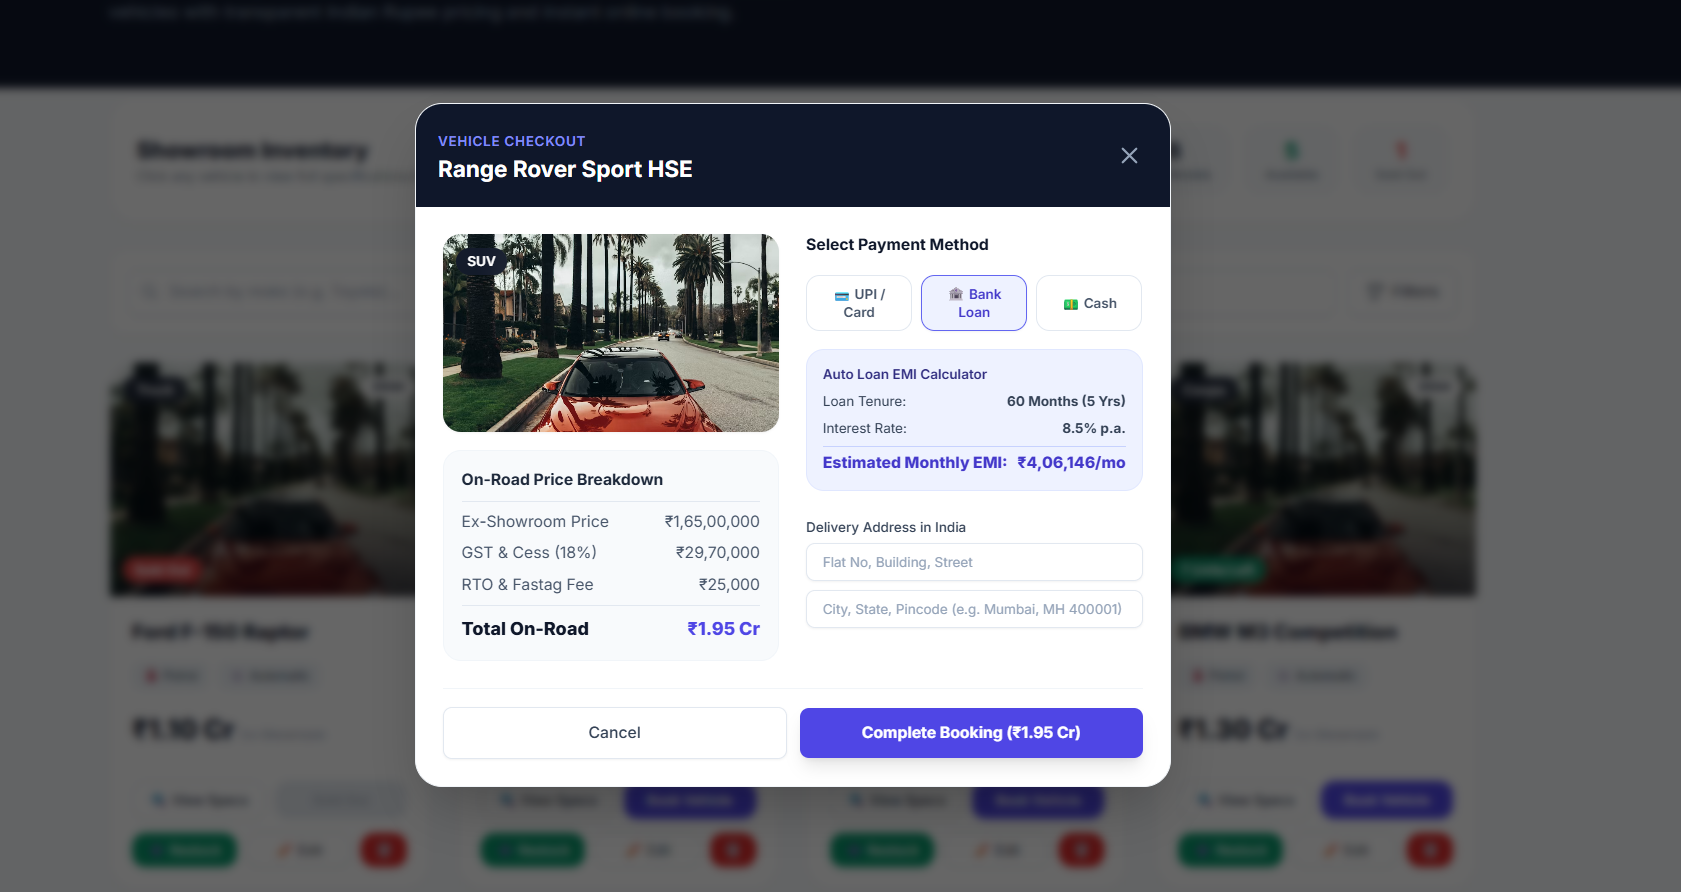
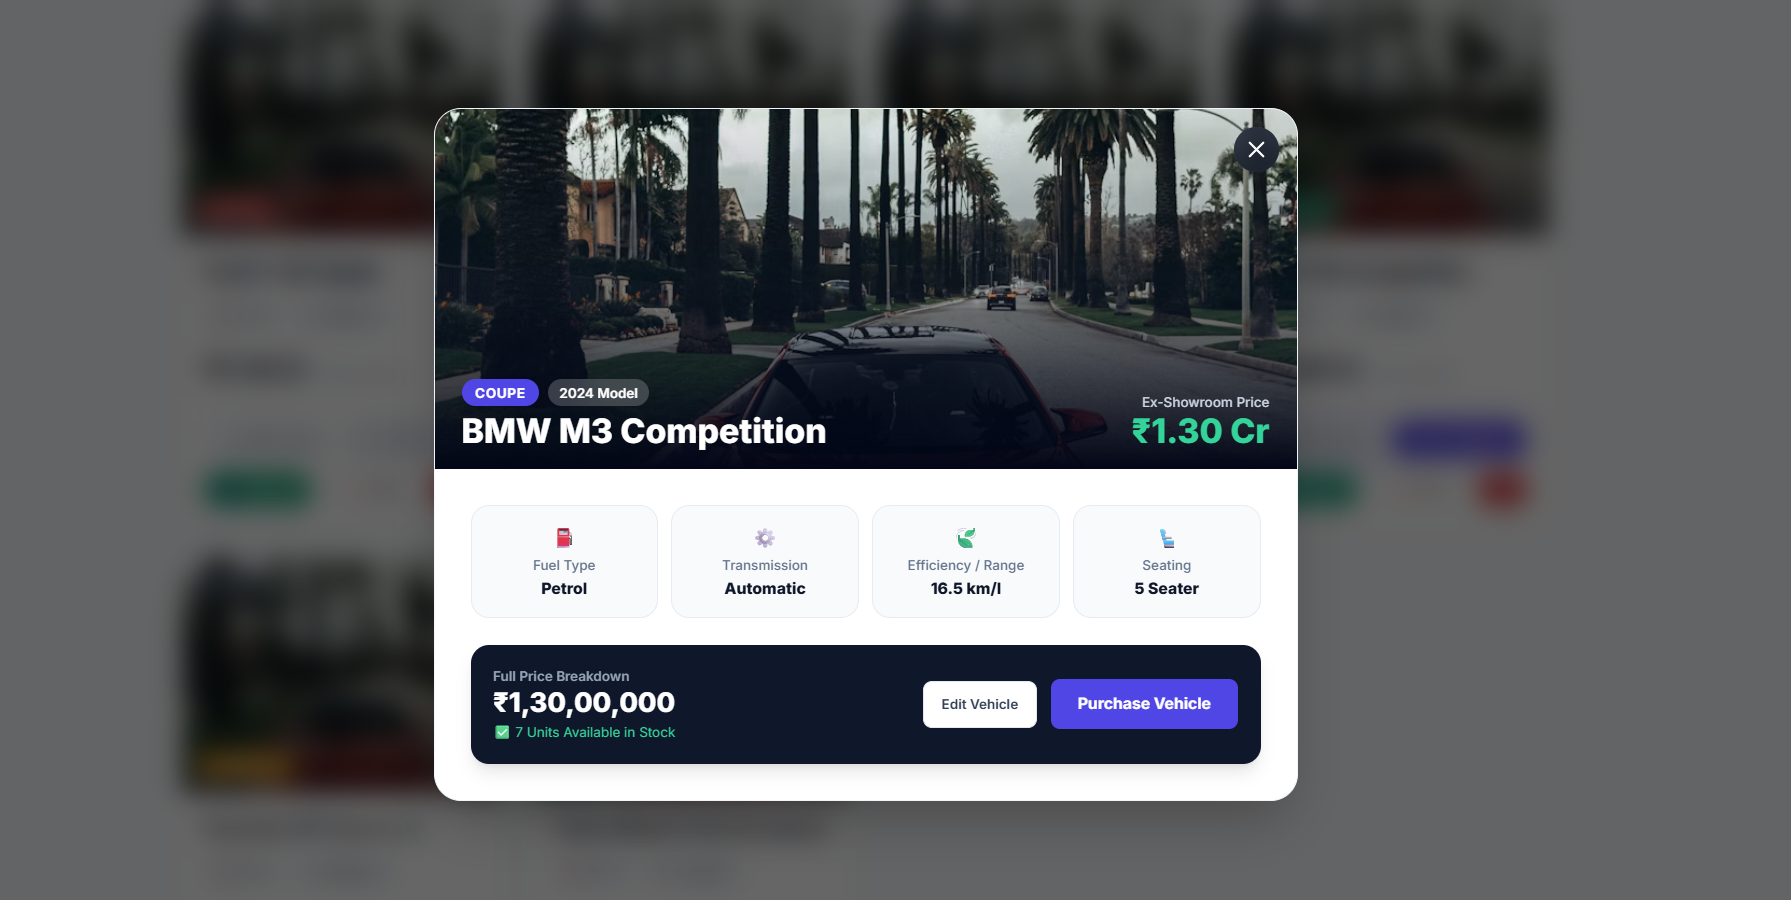
readme updated

diff --git a/README.md b/README.md
@@ -208,16 +208,16 @@ For full API documentation, see [API_DOCS.md](./API_DOCS.md).
 ![Vehicle Specifications](./screenshots/vehicle_details.png)
 
 ### 3. Interactive Checkout & Booking Modal
-![Interactive Checkout Modal](./screenshots/checkout_modal.png)
+![Interactive Checkout Modal](./screenshots/purchase.png)
 
-### 4. Booking Receipt & Tax Invoice
-![Booking Receipt](./screenshots/purchase_receipt.png)
+### 4. User Login
+![Booking Receipt](./screenshots/login.png)
 
-### 5. Admin Fleet Management Panel
-![Admin Management Panel](./screenshots/admin_panel.png)
+### 5. Admin Management Panel
+![Admin Management Panel](./screenshots/admin.png)
 
 ### 6. Admin Vehicle Edit Dialog Popup
-![Admin Vehicle Edit Modal](./screenshots/admin_edit_modal.png)
+![Admin Vehicle Edit Modal](./screenshots/vehicle_edit.png)
 
 ---
 